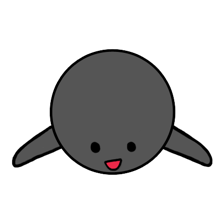
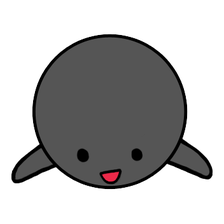
Tune stone expressions per the artist's review, v1.17.1
とろろ (the 碁石さん artist) reviewed the app and clarified what his
faces actually mean: 4 = about to be captured, 12 = doomed and resigned
(not a decorative card), 15 = angry (not panic). Applied:
- single/small group in atari: face 15 -> 4 (his a1 -> a2)
- big group in atari: face 4 -> 12 (his b1 -> b4)
- removed the star-point 'special card' rule entirely — a safe stone
  should never wear the resigned face (his c1); 15 joins the angry pool
  for 'a friend was just captured' (now 1/5/15)
- swapped face 3 art (both colours) for his new short-armed versions
  (goisi_k3s / goisi_s3s2) so that face no longer renders smaller than
  the others after bbox-square normalization

Changed region(s): [[0.0312, 0.125, 0.9688, 0.8438]]

diff --git a/ui.js b/ui.js
@@ -7,9 +7,10 @@
   'use strict';
   var E = window.GoEngine, LESSONS = window.GoLessons;
   var BLACK = E.BLACK, WHITE = E.WHITE, EMPTY = E.EMPTY;
-  var VERSION = '1.17.0';
+  var VERSION = '1.17.1';
   // shown in the in-app "version history" dialog (newest first)
   var CHANGELOG = [
+    { v: '1.17.1', th: 'ปรับสีหน้าหมากตามคำแนะนำของผู้วาด (とろろ)', en: 'Stone expressions tuned per the artist\'s (とろろ) review' },
     { v: '1.17.0', th: 'บทเรียนใหม่ 5 บท: เชื่อม/ตัด · บันได · สแนปแบ็ก · ตาปลอม · การจบเกม (รวม 12 บท)', en: '5 new lessons: connect/cut · ladder · snapback · false eyes · game endings (12 total)' },
     { v: '1.16.4', th: 'เก็บกวาดโค้ด + แก้บั๊กย่อย (พิกัดข้าม I, กันบอทเดินซ้ำ)', en: 'Cleanup + small fixes (Go coords skip I, no double bot moves)' },
     { v: '1.16.3', th: 'นิวรัล 19×19 คิดเร็วขึ้น (แรงเท่าเดิม ไม่ค้าง)', en: '19×19 Neural thinks faster (same strength, still no freeze)' },
@@ -125,6 +126,8 @@
   // genuinely-calm 碁石さん faces — the only non-situational pick, for a plain
   // settled stone (kept stable per position so a stone's resting face doesn't flicker).
   var CALM_FACES = [11, 3, 17, 18];
+  // angry faces (per the artist: 15 is anger, not panic) — for "a friend was just captured"
+  var ANGRY_FACES = [1, 5, 15];
 
   // ---------- helpers ----------
   function cloneGame(g) {
@@ -194,9 +197,9 @@
       });
     }
 
-    // mascot stones: precompute group liberties + sizes, the star-point set, and
-    // what the last move just captured — so each stone can pick a fitting expression.
-    var libOf = null, sizeOf = null, starSet = null, capSet = null, capColor = 0;
+    // mascot stones: precompute group liberties + sizes, and what the last move
+    // just captured — so each stone can pick a fitting expression.
+    var libOf = null, sizeOf = null, capSet = null, capColor = 0;
     if (S.stoneStyle === 'mascot') {
       libOf = {}; sizeOf = {};
       for (var gi = 0; gi < g.board.length; gi++) {
@@ -204,8 +207,6 @@
         var grp = E.group(g, gi), lc = grp.liberties.length, sz = grp.stones.length, s;
         for (s = 0; s < sz; s++) { libOf[grp.stones[s]] = lc; sizeOf[grp.stones[s]] = sz; }
       }
-      starSet = {};
-      starPoints(n).forEach(function (p) { starSet[p[1] * n + p[0]] = 1; });
       capSet = {};
       if (g.lastMove && g.lastMove.captured) {
         g.lastMove.captured.forEach(function (ci) { capSet[ci] = 1; });
@@ -243,19 +244,20 @@
         }
         var capN = (justPlaced && g.lastMove.captured) ? g.lastMove.captured.length : 0;
         var hash = (i * 2654435761 >>> 0);
+        // face meanings confirmed by the artist (とろろ): 4 = about to be captured,
+        // 12 = doomed and resigned to it, 15 = angry (NOT panic), 16 = sleeping.
         var fn;
         if (S.scoring && S.dead && S.dead.has(i)) fn = 16;       // marked dead -> sleeping
-        else if (libOf[i] === 1) fn = sizeOf[i] >= 4 ? 4 : 15;  // atari: big group doomed -> pale shock, else panic
+        else if (libOf[i] === 1) fn = sizeOf[i] >= 4 ? 12 : 4;  // atari: big group -> resigned to its fate, else about-to-be-captured
         else if (capN >= 3) fn = 14;                            // just captured a big group -> big laugh
         else if (capN >= 1) fn = 2;                             // just captured -> smug
-        else if (friendLost) fn = (hash & 1) ? 1 : 5;          // a friend was just captured beside us -> angry
+        else if (friendLost) fn = ANGRY_FACES[hash % ANGRY_FACES.length]; // a friend was just captured beside us -> angry
         else if (libOf[i] === 2) fn = 8;                        // 2 liberties -> worried
         else if (justPlaced) fn = attacks ? 10 : 13;           // just placed: sneaky if it threatens, else happy
         else if (attacks) fn = 10;                             // threatening an enemy group -> mischievous
         else if (koNext) fn = 6;                               // beside the ko point -> pouty
         else if (libOf[i] === 3) fn = 9;                       // getting hemmed in -> uneasy
         else if (libOf[i] >= 6 || sizeOf[i] >= 5) fn = 7;      // strong / large group -> content
-        else if (starSet[i]) fn = 12;                          // star point -> the special card
         else fn = CALM_FACES[hash % CALM_FACES.length];        // plain settled stone -> calm
         layerStone.appendChild(el('image', {
           x: px(x) - R, y: px(y) - R, width: 2 * R, height: 2 * R,

diff --git a/styles.css b/styles.css
@@ -178,10 +178,10 @@ footer a { color: var(--accent); text-decoration: none; }
    ?v= cache-busts when the guide art changes (these filenames are reused); bump with VERSION. */
 .mascot-row { display: flex; align-items: center; gap: 10px; margin-bottom: 14px; }
 .mascot { width: 62px; height: 46px; flex: none; background: center/contain no-repeat; }
-.mascot[data-state="idle"]  { background-image: url(assets/mascot/idle.png?v=1.17.0); }
-.mascot[data-state="happy"] { background-image: url(assets/mascot/happy.png?v=1.17.0); }
-.mascot[data-state="think"] { background-image: url(assets/mascot/think.png?v=1.17.0); }
-.mascot[data-state="oops"]  { background-image: url(assets/mascot/oops.png?v=1.17.0); }
+.mascot[data-state="idle"]  { background-image: url(assets/mascot/idle.png?v=1.17.1); }
+.mascot[data-state="happy"] { background-image: url(assets/mascot/happy.png?v=1.17.1); }
+.mascot[data-state="think"] { background-image: url(assets/mascot/think.png?v=1.17.1); }
+.mascot[data-state="oops"]  { background-image: url(assets/mascot/oops.png?v=1.17.1); }
 .mascot-msg { font-size: 13.5px; color: var(--ink); margin: 0; min-height: 18px; font-weight: 500; }
 
 @media (prefers-reduced-motion: reduce) {

diff --git a/index.html b/index.html
@@ -8,7 +8,7 @@
   <meta name="color-scheme" content="light dark">
   <meta name="description" content="เรียนและเล่นโกะ (หมากล้อม / 围棋 / Go) ในเบราว์เซอร์ พร้อมโหมดสอนเล่นทีละขั้น">
   <title>围棋 · Go · หมากล้อม — เรียนและเล่น</title>
-  <link rel="stylesheet" href="styles.css?v=1.17.0">
+  <link rel="stylesheet" href="styles.css?v=1.17.1">
 </head>
 <body>
   <div class="wrap">
@@ -157,8 +157,8 @@
   </dialog>
 
   <!-- ?v= cache-busts on each release; bump together with VERSION in ui.js / worker.js -->
-  <script src="engine.js?v=1.17.0"></script>
-  <script src="lessons.js?v=1.17.0"></script>
-  <script src="ui.js?v=1.17.0"></script>
+  <script src="engine.js?v=1.17.1"></script>
+  <script src="lessons.js?v=1.17.1"></script>
+  <script src="ui.js?v=1.17.1"></script>
 </body>
 </html>

diff --git a/worker.js b/worker.js
@@ -7,7 +7,7 @@
  * run KataGo nets in neural-worker.js — see kataModel() in ui.js.
  */
 /* global GoEngine, importScripts, postMessage, onmessage */
-importScripts('engine.js?v=1.17.0'); // keep in sync with VERSION (cache-bust)
+importScripts('engine.js?v=1.17.1'); // keep in sync with VERSION (cache-bust)
 var E = GoEngine, EMPTY = E.EMPTY;
 
 function isEye(g, i, color) {
